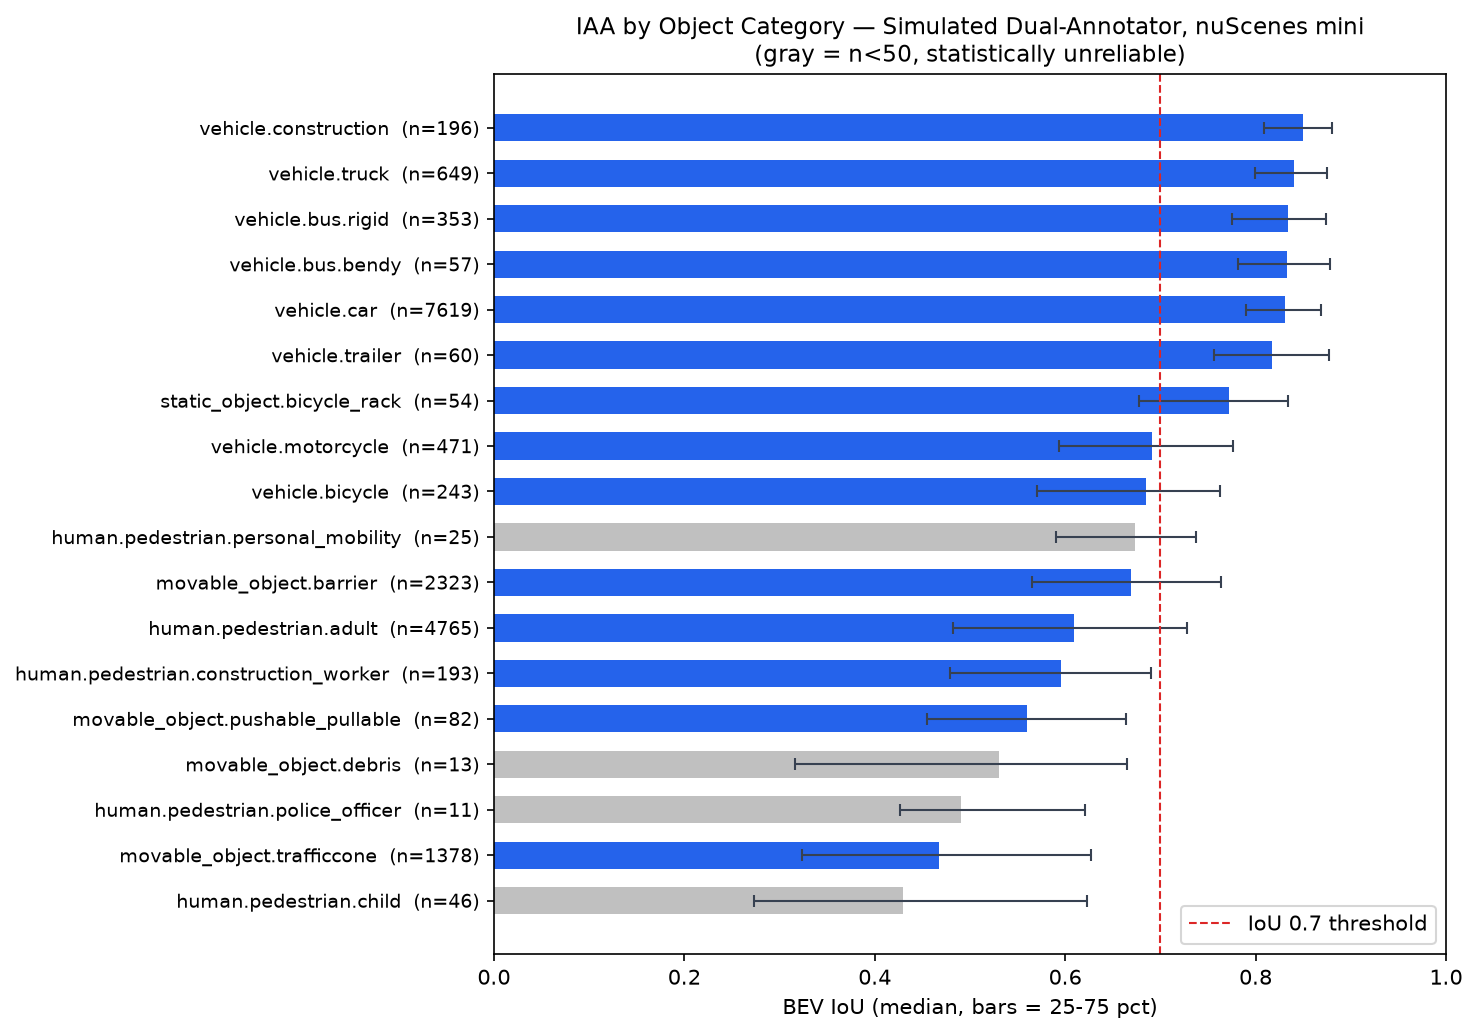
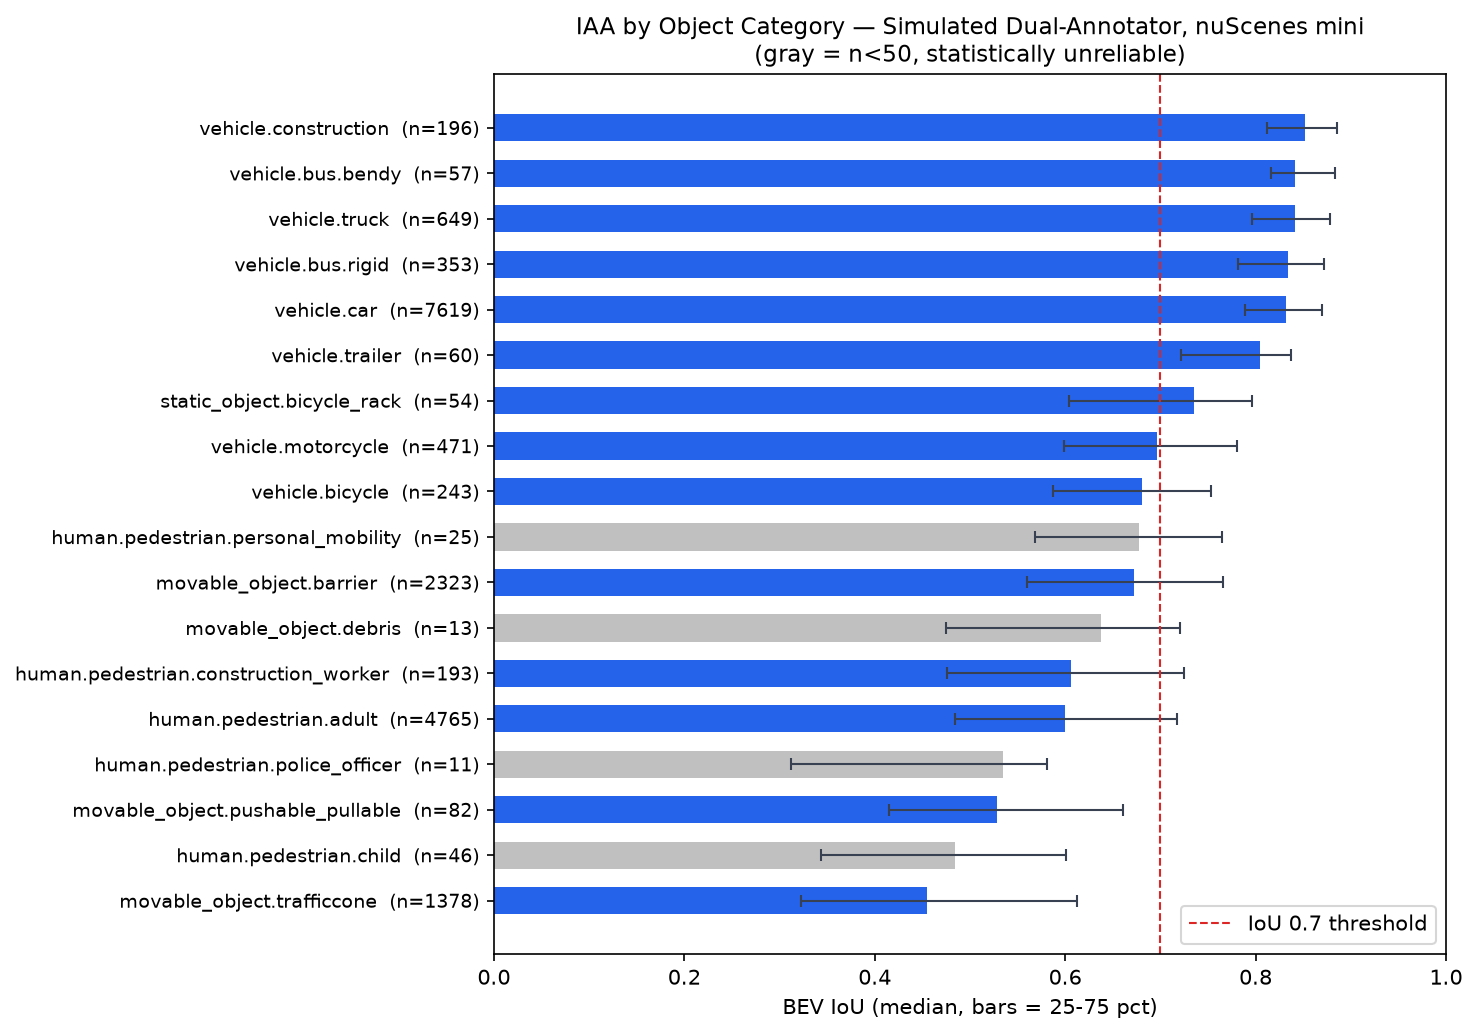
Update figures and fix calibration numbers after notebook cleanup

diff --git a/README.md b/README.md
@@ -64,7 +64,7 @@ real dual-annotator AV datasets (median IoU 0.7–0.9). The initial value
 (σ = 0.20m) produced a median IoU of 0.68 — below target, with 30.6% 
 of annotation pairs below 0.5. After one calibration iteration, 
 σ = 0.12m yielded a median IoU of 0.768, with IoU < 0.5 dropping to 
-14.6%. This value was locked as the final parameter.
+14.9%. This value was locked as the final parameter.
 
 ### 2.4 Metrics
 **BEV IoU** (Bird's Eye View, x-y plane projection) was selected over 
@@ -179,7 +179,7 @@ This section distinguishes what the framework reliably demonstrates
 from what requires real multi-annotator data to validate.
 
 **L1 — Kappa reflects simulation parameters, not discovered disagreement.**
-Cohen's Kappa = 0.936 is largely an echo of the 5% confusion rate 
+Cohen's Kappa = 0.934 is largely an echo of the 5% confusion rate 
 built into the simulation: 95% of category assignments are identical 
 by construction, compressing the chance-agreement correction. 
 The pipeline is valid; the Kappa number should not be interpreted 